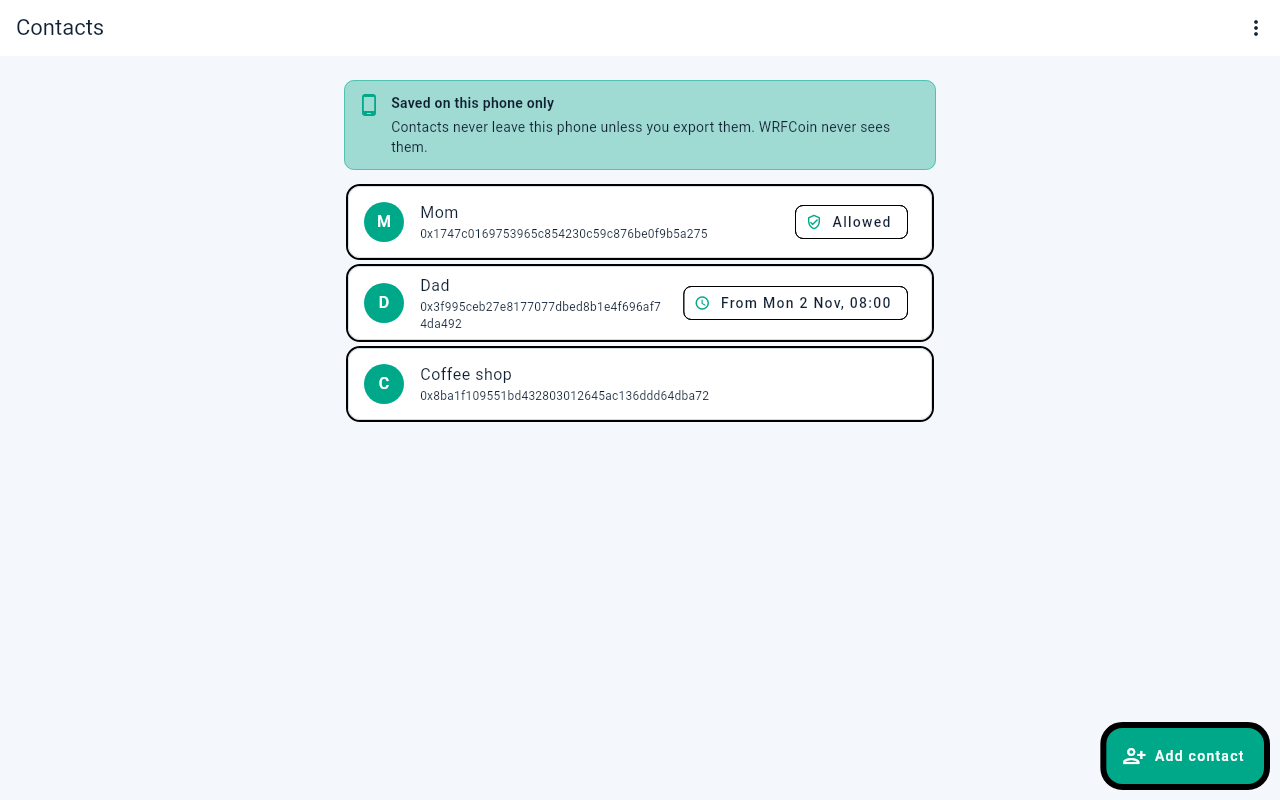
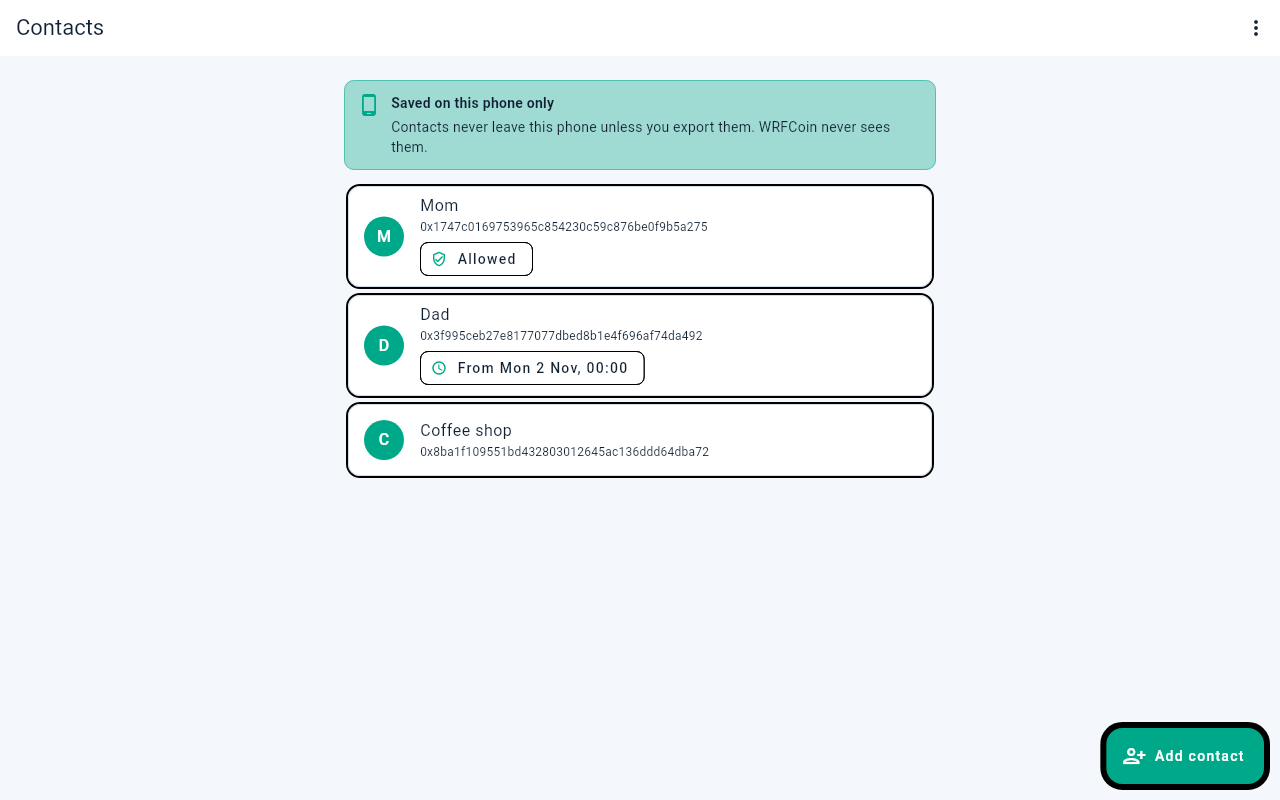
fix(theme): text stays readable in light mode; contacts keep room for the address (#53)
The near-white AppColors.textPrimary was used on themed surfaces, so proposal
titles and other text vanished in light mode. Those now use the theme's
onSurface. The handoff banner's message was invisible in both themes, on its pale
amber card. A test keeps the near-white colour to surfaces that stay dark.

The contacts list put its Allowed chip beside the address, which squeezed the
address at phone width. The chip now sits under it.

Claude-Session: https://claude.ai/code/session_01HDDj5uuwph7snk7atTtUPC

Changed region(s): [[0.25, 0.25, 0.75, 0.625], [0.625, 0.25, 0.6875, 0.2812]]

diff --git a/test/core/theme/light_mode_text_test.dart b/test/core/theme/light_mode_text_test.dart
@@ -1,0 +1,83 @@
+import 'dart:io';
+
+import 'package:flutter/material.dart';
+import 'package:flutter_riverpod/flutter_riverpod.dart';
+import 'package:flutter_test/flutter_test.dart';
+import 'package:go_router/go_router.dart';
+import 'package:wrfcoin_mobile/core/auth/auth_handoff.dart';
+import 'package:wrfcoin_mobile/core/theme/app_theme.dart';
+import 'package:wrfcoin_mobile/features/governance/data/models/proposal_model.dart';
+import 'package:wrfcoin_mobile/features/governance/presentation/widgets/proposal_card.dart';
+import 'package:wrfcoin_mobile/features/wallet/presentation/widgets/auth_handoff_banner.dart';
+
+/// The near-white [AppColors.textPrimary] only reads on a surface that stays
+/// dark in both themes. These are the places that use it on purpose.
+const _alwaysDark = {
+  'lib/core/theme/app_theme.dart',
+  // A gradient card, dark in both themes.
+  'lib/features/collector/presentation/widgets/share_card.dart',
+  // The rank circle is AppColors.surfaceLight, dark in both themes.
+  'lib/features/gamification/presentation/screens/leaderboard_screen.dart',
+  // The tooltip is AppColors.surface, dark in both themes.
+  'lib/features/weather/presentation/widgets/wrf_forecast_chart.dart',
+};
+
+Color _colorOf(WidgetTester tester, String text) =>
+    tester.widget<Text>(find.text(text)).style!.color!;
+
+void main() {
+  test('near-white text is used only on surfaces that stay dark', () {
+    final offenders = Directory('lib')
+        .listSync(recursive: true)
+        .whereType<File>()
+        .where((f) => f.path.endsWith('.dart'))
+        .where((f) => f.readAsStringSync().contains('AppColors.textPrimary'))
+        .map((f) => f.path.replaceAll(r'\', '/'))
+        .where((path) => !_alwaysDark.contains(path))
+        .toList();
+    expect(offenders, isEmpty);
+  });
+
+  testWidgets('a proposal title is dark on the light theme', (tester) async {
+    const proposal = ProposalModel(
+      id: 'p1',
+      title: 'Sample proposal',
+      description: 'Text',
+      status: 'active',
+    );
+    await tester.pumpWidget(
+      MaterialApp(
+        theme: AppTheme.lightTheme,
+        home: const Scaffold(body: ProposalCard(proposal: proposal)),
+      ),
+    );
+    expect(_colorOf(tester, 'Sample proposal'), AppColors.lightTextPrimary);
+  });
+
+  testWidgets('a handoff message reads on its pale amber card', (tester) async {
+    final handoff = AuthHandoffController()
+      ..requireWalletConnect(
+        reason: AuthHandoffReason.unsupportedWallet,
+        message: 'Handoff message',
+      );
+    final router = GoRouter(
+      routes: [
+        GoRoute(
+          path: '/',
+          builder: (_, _) =>
+              Scaffold(body: AuthHandoffBanner(handoff: handoff)),
+        ),
+      ],
+    );
+    await tester.pumpWidget(
+      ProviderScope(
+        child: MaterialApp.router(
+          theme: AppTheme.lightTheme,
+          routerConfig: router,
+        ),
+      ),
+    );
+    await tester.pumpAndSettle();
+    expect(_colorOf(tester, 'Handoff message'), Colors.amber.shade900);
+  });
+}

diff --git a/test/core/theme/light_mode_screenshots_test.dart b/test/core/theme/light_mode_screenshots_test.dart
@@ -1,0 +1,66 @@
+import 'dart:io';
+
+import 'package:flutter/material.dart';
+import 'package:flutter/services.dart';
+import 'package:flutter_test/flutter_test.dart';
+import 'package:wrfcoin_mobile/core/theme/app_theme.dart';
+import 'package:wrfcoin_mobile/features/governance/data/models/proposal_model.dart';
+import 'package:wrfcoin_mobile/features/governance/presentation/widgets/proposal_card.dart';
+
+// Renders with SCREENSHOT_FONTS set to Flutter's bin/cache/artifacts/material_fonts:
+// flutter test --update-goldens test/core/theme/light_mode_screenshots_test.dart
+// The proposal is a synthetic fixture.
+void main() {
+  final fonts = Platform.environment['SCREENSHOT_FONTS'];
+
+  Future<void> load(String family, String file) async {
+    final loader = FontLoader(family)
+      ..addFont(
+        Future.value(
+          ByteData.sublistView(File('$fonts/$file').readAsBytesSync()),
+        ),
+      );
+    await loader.load();
+  }
+
+  testWidgets('a proposal card on the light theme', (tester) async {
+    await load('Roboto', 'Roboto-Regular.ttf');
+    await load('MaterialIcons', 'MaterialIcons-Regular.otf');
+    tester.view.physicalSize = const Size(390, 844);
+    tester.view.devicePixelRatio = 1;
+    addTearDown(tester.view.resetPhysicalSize);
+    addTearDown(tester.view.resetDevicePixelRatio);
+    await tester.pumpWidget(
+      MaterialApp(
+        debugShowCheckedModeBanner: false,
+        theme: AppTheme.lightTheme.copyWith(
+          textTheme: AppTheme.lightTheme.textTheme.apply(fontFamily: 'Roboto'),
+        ),
+        home: Scaffold(
+          appBar: AppBar(title: const Text('Governance')),
+          body: const Padding(
+            padding: EdgeInsets.all(16),
+            child: Align(
+              alignment: Alignment.topCenter,
+              child: ProposalCard(
+                proposal: ProposalModel(
+                  id: 'synthetic-1',
+                  title: 'Sample proposal',
+                  description: 'Synthetic text for this screenshot.',
+                  status: 'active',
+                ),
+              ),
+            ),
+          ),
+        ),
+      ),
+    );
+    await tester.pumpAndSettle();
+    await expectLater(
+      find.byType(MaterialApp),
+      matchesGoldenFile(
+        '../../../docs/screens/light_mode/govern-phone-390.png',
+      ),
+    );
+  }, skip: fonts == null);
+}

diff --git a/lib/features/gamification/presentation/widgets/nft_portfolio_section.dart b/lib/features/gamification/presentation/widgets/nft_portfolio_section.dart
@@ -23,14 +23,14 @@ class NftPortfolioSection extends ConsumerWidget {
     return Column(
       crossAxisAlignment: CrossAxisAlignment.start,
       children: [
-        const Padding(
-          padding: EdgeInsets.fromLTRB(16, 24, 16, 12),
+        Padding(
+          padding: const EdgeInsets.fromLTRB(16, 24, 16, 12),
           child: Text(
             'NFT Badges',
             style: TextStyle(
               fontSize: 16,
               fontWeight: FontWeight.bold,
-              color: AppColors.textPrimary,
+              color: Theme.of(context).colorScheme.onSurface,
             ),
           ),
         ),
@@ -67,21 +67,21 @@ class _EmptyView extends StatelessWidget {
 
   @override
   Widget build(BuildContext context) {
-    return const Padding(
-      padding: EdgeInsets.symmetric(horizontal: 16, vertical: 24),
+    return Padding(
+      padding: const EdgeInsets.symmetric(horizontal: 16, vertical: 24),
       child: Column(
         children: [
-          Icon(Icons.badge, size: 48, color: AppColors.textMuted),
-          SizedBox(height: 12),
+          const Icon(Icons.badge, size: 48, color: AppColors.textMuted),
+          const SizedBox(height: 12),
           Text(
             'No NFT badges yet',
             style: TextStyle(
               fontWeight: FontWeight.w600,
-              color: AppColors.textPrimary,
+              color: Theme.of(context).colorScheme.onSurface,
             ),
           ),
-          SizedBox(height: 4),
-          Text(
+          const SizedBox(height: 4),
+          const Text(
             'Earn streak or storm-chaser badges to see them here.',
             textAlign: TextAlign.center,
             style: TextStyle(color: AppColors.textSecondary, fontSize: 13),
@@ -270,7 +270,9 @@ class _NftBadgeTile extends StatelessWidget {
               style: TextStyle(
                 fontSize: 11,
                 fontWeight: FontWeight.w600,
-                color: isLocked ? AppColors.textMuted : AppColors.textPrimary,
+                color: isLocked
+                    ? AppColors.textMuted
+                    : Theme.of(context).colorScheme.onSurface,
               ),
             ),
             const SizedBox(height: 2),

diff --git a/lib/features/wallet/presentation/screens/address_book_screen.dart b/lib/features/wallet/presentation/screens/address_book_screen.dart
@@ -359,11 +359,18 @@ class _ContactTile extends StatelessWidget {
           child: Text(entry.label.characters.first.toUpperCase()),
         ),
         title: Text(entry.label),
-        subtitle: Text(
-          entry.address,
-          style: const TextStyle(fontFamily: 'monospace', fontSize: 12),
+        // The chip sits under the address: beside it, a phone-width row left
+        // the address a few characters per line.
+        subtitle: Column(
+          crossAxisAlignment: CrossAxisAlignment.start,
+          children: [
+            Text(
+              entry.address,
+              style: const TextStyle(fontFamily: 'monospace', fontSize: 12),
+            ),
+            if (chip != null) ...[const SizedBox(height: 4), chip],
+          ],
         ),
-        trailing: chip,
         onTap: onTap,
       ),
     );

diff --git a/test/core/theme/app_theme_test.dart b/test/core/theme/app_theme_test.dart
@@ -32,8 +32,9 @@ void main() {
       expect(tt.labelLarge, isNotNull);
     });
 
-    testWidgets('ElevatedButton resolves foreground from theme colorScheme',
-        (tester) async {
+    testWidgets('ElevatedButton resolves foreground from theme colorScheme', (
+      tester,
+    ) async {
       // The ElevatedButton style should use ColorScheme colors rather than
       // hardcoded hex so it adapts when the scheme changes.
       final theme = AppTheme.darkTheme;
@@ -41,10 +42,7 @@ void main() {
         MaterialApp(
           theme: theme,
           home: Scaffold(
-            body: ElevatedButton(
-              onPressed: () {},
-              child: const Text('Press'),
-            ),
+            body: ElevatedButton(onPressed: () {}, child: const Text('Press')),
           ),
         ),
       );

diff --git a/lib/features/weather/presentation/screens/forecast_detail_screen.dart b/lib/features/weather/presentation/screens/forecast_detail_screen.dart
@@ -161,9 +161,9 @@ class _HourlyTile extends StatelessWidget {
         child: Center(
           child: Text(
             timeLabel,
-            style: const TextStyle(
+            style: TextStyle(
               fontWeight: FontWeight.w600,
-              color: AppColors.textPrimary,
+              color: Theme.of(context).colorScheme.onSurface,
             ),
           ),
         ),
@@ -274,7 +274,7 @@ class _DailyCard extends StatelessWidget {
                       fontWeight: FontWeight.w600,
                       color: isToday
                           ? AppColors.primary
-                          : AppColors.textPrimary,
+                          : Theme.of(context).colorScheme.onSurface,
                     ),
                   ),
                 ),

diff --git a/lib/features/wallet/presentation/widgets/auth_handoff_banner.dart b/lib/features/wallet/presentation/widgets/auth_handoff_banner.dart
@@ -2,7 +2,6 @@ import 'package:flutter/material.dart';
 import 'package:flutter_riverpod/flutter_riverpod.dart';
 
 import '../../../../core/auth/auth_handoff.dart';
-import '../../../../core/theme/app_theme.dart';
 import '../../../../services/api/api_client.dart';
 import '../providers/wallet_provider.dart';
 
@@ -60,7 +59,8 @@ class _AuthHandoffBannerState extends ConsumerState<AuthHandoffBanner> {
                 Expanded(
                   child: Text(
                     message,
-                    style: const TextStyle(color: AppColors.textPrimary),
+                    // The card is pale amber in both themes.
+                    style: TextStyle(color: Colors.amber.shade900),
                   ),
                 ),
                 IconButton(

diff --git a/lib/core/theme/app_theme.dart b/lib/core/theme/app_theme.dart
@@ -10,6 +10,9 @@ class AppColors {
   static const error = Color(0xFFFF6B6B);
   static const warning = Color(0xFFFFD93D);
   static const success = Color(0xFF51CF66);
+  /// Near-white, for surfaces that stay dark in both themes (the dark theme
+  /// itself, a share card, a tooltip). Text on a themed surface uses
+  /// `colorScheme.onSurface`, or it vanishes in light mode.
   static const textPrimary = Color(0xFFF0F6FC);
   static const textSecondary = Color(0xFF9DA5AD);
   static const textMuted = Color(0xFF484F58);

diff --git a/lib/features/weather/presentation/widgets/hdd_cdd_card.dart b/lib/features/weather/presentation/widgets/hdd_cdd_card.dart
@@ -160,10 +160,10 @@ class _DegreeDay extends StatelessWidget {
               ),
               Text(
                 value.toStringAsFixed(1),
-                style: const TextStyle(
+                style: TextStyle(
                   fontSize: 20,
                   fontWeight: FontWeight.bold,
-                  color: AppColors.textPrimary,
+                  color: Theme.of(context).colorScheme.onSurface,
                 ),
               ),
             ],

diff --git a/lib/features/governance/presentation/widgets/proposal_card.dart b/lib/features/governance/presentation/widgets/proposal_card.dart
@@ -41,8 +41,8 @@ class ProposalCard extends StatelessWidget {
               const SizedBox(height: 10),
               Text(
                 proposal.title,
-                style: const TextStyle(
-                  color: AppColors.textPrimary,
+                style: TextStyle(
+                  color: Theme.of(context).colorScheme.onSurface,
                   fontWeight: FontWeight.w600,
                   fontSize: 16,
                 ),

diff --git a/lib/features/analytics/presentation/widgets/collection_heatmap_widget.dart b/lib/features/analytics/presentation/widgets/collection_heatmap_widget.dart
@@ -51,7 +51,7 @@ class CollectionHeatmapWidget extends StatelessWidget {
                   )!;
                   final foreground = intensity > 0.55
                       ? AppColors.background
-                      : AppColors.textPrimary;
+                      : Theme.of(context).colorScheme.onSurface;
 
                   return Container(
                     constraints: BoxConstraints.tightFor(

diff --git a/lib/features/analytics/presentation/widgets/analytics_trend_chart.dart b/lib/features/analytics/presentation/widgets/analytics_trend_chart.dart
@@ -196,8 +196,8 @@ class _TrendChip extends StatelessWidget {
             ),
             TextSpan(
               text: value,
-              style: const TextStyle(
-                color: AppColors.textPrimary,
+              style: TextStyle(
+                color: Theme.of(context).colorScheme.onSurface,
                 fontWeight: FontWeight.w600,
               ),
             ),
